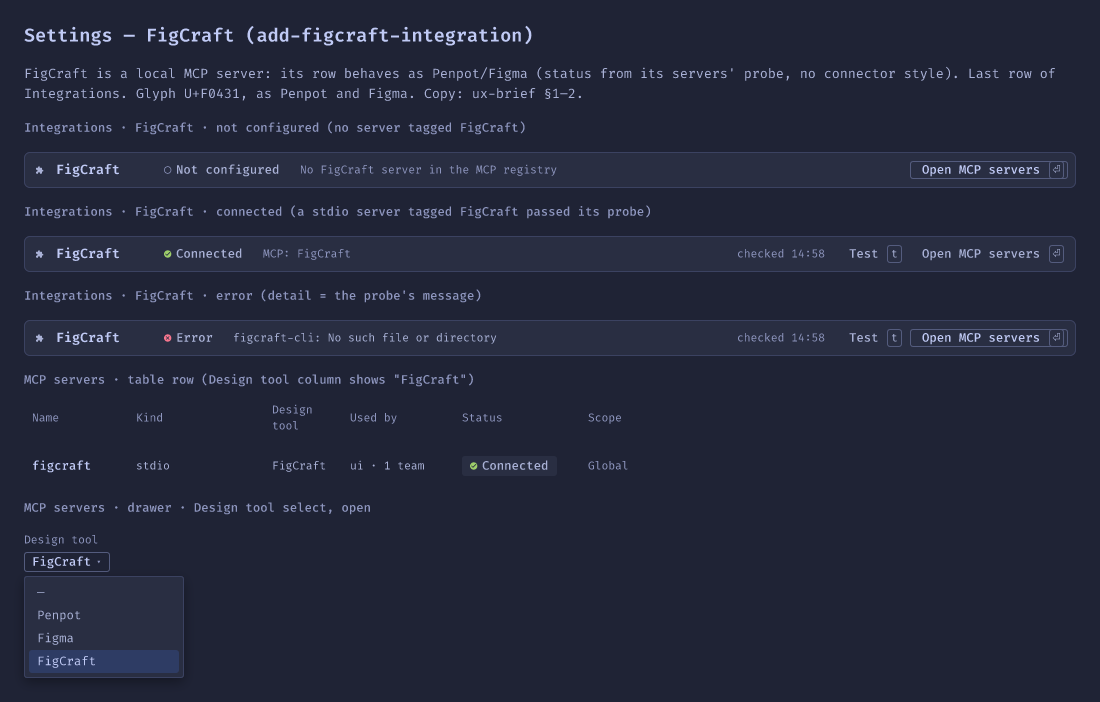
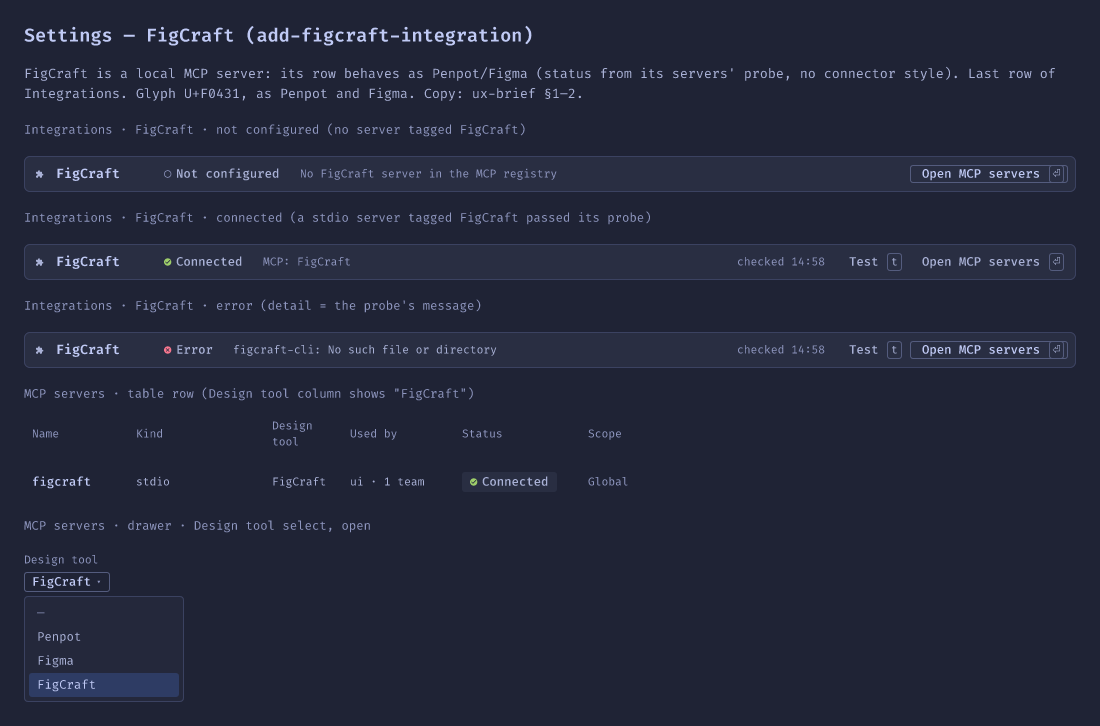
design(add-figcraft-integration): redraw the FigCraft frames on main's Orchestrator.figcraft (T-253)
- 04.7 Settings: FigCraft row last in "Settings · Integrations · 1512"
- "Settings · FigCraft · states" at x = 4836, "Settings · MCP servers · FigCraft draft · 1512" at x = 6036 (clear of the Live cap frames)
- Re-exported figcraft-states.png and figcraft-mcp-draft.png; integrations export unchanged

diff --git a/docs/design/README.md b/docs/design/README.md
@@ -17,7 +17,7 @@ The UI source of truth is the FigCraft file [`Orchestrator.figcraft`](Orchestrat
 | 04.5 Inbox | P1 Inbox, PR update gate states (history: the Inbox pane is removed in P4.3, its cards are on 04.3) | P1 Ready for dev |
 | 04.6 Planner & reports | P1 Week planner. **P3**: Weekly report, model windows and off-hours (+ states) | P1 Ready for dev · **P3 In review** |
 | 04.7 Settings | **P3**: Settings Integrations and MCP servers (+ states), Project settings Linear (+ states). **Allocation**: Project settings Allocation 1512 (+ Light copy, states 1–9) and the Week planner plan editor with not in plan rows (state 10). **Live cap** ("Live cap · …"): Settings › Pacing policy default, edited, shadow mode, above 6, field error, no off-hours allowance, load error at 1512, edited at 1280 | **P3 In review** · **Live cap In review** |
-| 04.7 Settings · FigCraft (add-figcraft-integration) | Integrations: FigCraft row last, Not configured (glyph U+F0431, as Penpot/Figma); board "Settings · FigCraft · states" (x = 4836): row Not configured / Connected / Error, MCP table row, Design tool select with FigCraft; "Settings · MCP servers · FigCraft draft · 1512" (x = 6036): new stdio draft (id figcraft, command placeholder figcraft-cli, args mcp, hint). Exports: `.orchestrator/features/add-figcraft-integration/design/` | **In review** |
+| 04.7 Settings · FigCraft (add-figcraft-integration) | Integrations: FigCraft row last, Not configured (glyph U+F0431, as Penpot/Figma); board "Settings · FigCraft · states" (x = 4836, y = 0): row Not configured / Connected / Error, MCP table row, Design tool select with FigCraft; "Settings · MCP servers · FigCraft draft · 1512" (x = 6036): new stdio draft (id figcraft, command placeholder figcraft-cli, args mcp, hint). Exports: `.orchestrator/features/add-figcraft-integration/design/` | **In review** |
 | 05 Keyboard & copy | Global, leader and pane-local shortcut maps (**P2**: Team canvas, Board, Feature rows); P0 conflicts; banner, notification and toast copy; copy rules. **P4.2**: Mission control keys, leader `o`, conflicts. **P4.3**: "P4.3 · Chat keys" (⌘⇧I, ⌘L, chat map, conflicts, palette); the Inbox row of the pane-local map removed; "Inbox" strings reworded | P1 Ready for dev · **P2 Ready for dev** · **P4.2 In review** · **P4.3 In review** |
 | 06.1 J12 storyboard | **P4.2 Part B**: J12 in 5 annotated frames (morning line, the day settled, ask why, third time a rule, watch don't open), callouts, keys, "Interventions this day: 0" | **P4.2 Part B In review** |
 | 06 Flows | Storyboards (annotated frames, no clickable prototype): J2 solo session (5 frames), J5 Inbox triage (6), J8 pacing the week (4). **P2**: J3 team on a feature, 5 notes over the 04 frames (y = 4500). **P4.3**: J5 replayed in the chat, 6 frames "P4.3 · J5 · …" (y = 7200); the P1 J5 Inbox frames stay as history | P1 Ready for dev · **P2 Ready for dev** · **P4.3 In review** |
